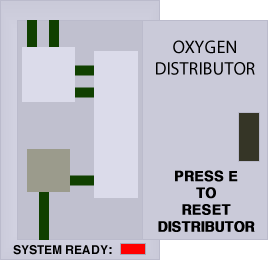
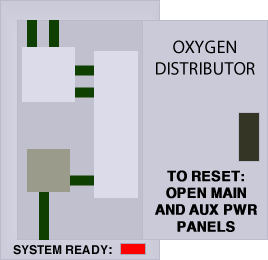
Revised some graphics, added four piece oxygen machine schematic for puzzle

Changed region(s): [[0.5672, 0.6462, 0.9552, 0.8923]]

diff --git a/src/tsa2035/game/content/core/Game.java b/src/tsa2035/game/content/core/Game.java
@@ -3,7 +3,7 @@ package tsa2035.game.content.core;
 import org.lwjgl.LWJGLException;
 
 import tsa2035.game.content.levels.level1.DemoLevel;
-import tsa2035.game.content.levels.level1.Level1;
+import tsa2035.game.content.levels.level1.Level7;
 import tsa2035.game.engine.core.Renderer;
 
 public class Game {
@@ -14,7 +14,7 @@ public class Game {
 	 */
 	public static void main(String[] args) throws LWJGLException {
 		Renderer.init(800, 600);
-		Renderer.renderLoop(new Level1());
+		Renderer.renderLoop(new Level7());
 	}
 
 }
